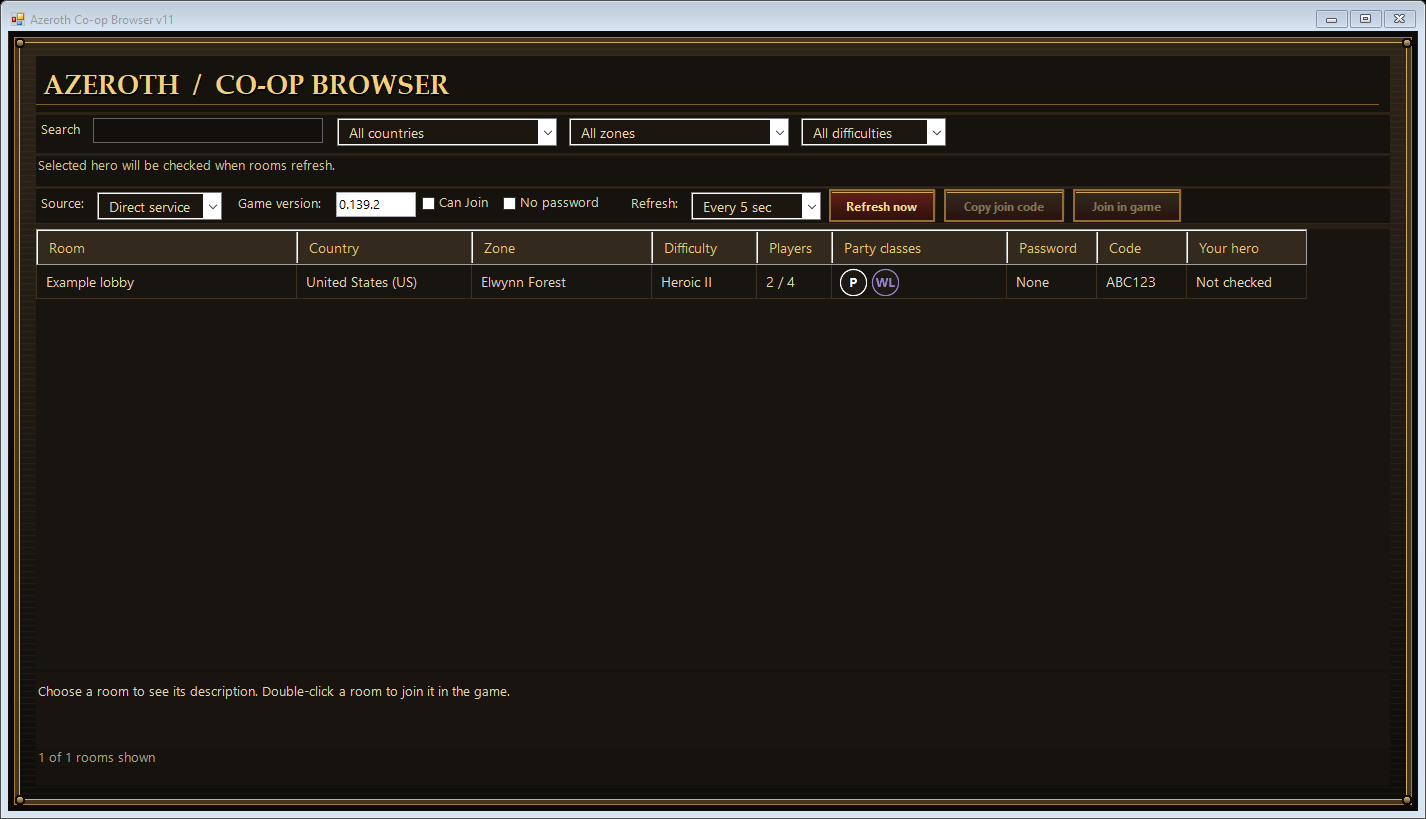
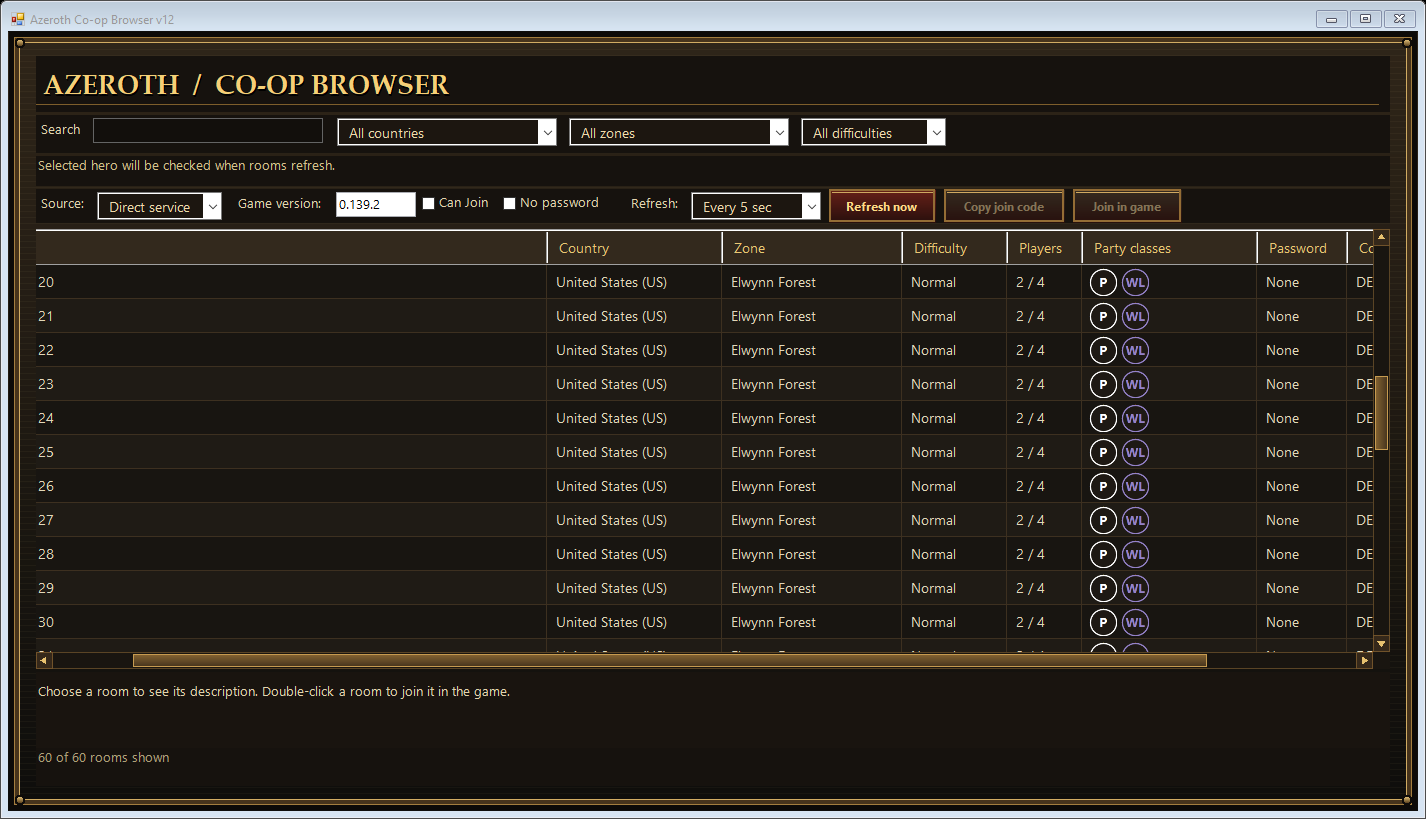
Add optional one-second refresh and dark-gold native scrollbars

diff --git a/src/Browser.cs b/src/Browser.cs
@@ -15,14 +15,14 @@ sealed class Lobby {
     internal string CountryLabel {get{try{return new RegionInfo(Country).EnglishName+" ("+Country+")";}catch{return string.IsNullOrEmpty(Country)?"Unknown":Country;}}}
 }
 sealed class BrowserForm : Form {
-    readonly DataGridView grid=new DataGridView();readonly TextBox search=new TextBox();
-    readonly ComboBox country=new ComboBox(),zone=new ComboBox(),difficulty=new ComboBox(),interval=new ComboBox();
+    readonly DataGridView grid=new WarcraftGrid();readonly TextBox search=new TextBox();
+    readonly ComboBox country=new WarcraftComboBox(),zone=new WarcraftComboBox(),difficulty=new WarcraftComboBox(),interval=new WarcraftComboBox();
     readonly CheckBox canJoin=new CheckBox(),noPassword=new CheckBox();
     readonly Label status=new Label(),details=new Label(),heroLabel=new Label();readonly HeroUnlockReader heroReader=new HeroUnlockReader();HeroUnlockState heroState;readonly Button refresh=new WarcraftButton(),copy=new WarcraftButton(),join=new WarcraftButton();
-    readonly ComboBox source=new ComboBox();readonly TextBox version=new TextBox();DirectLobbyReader directReader;
+    readonly ComboBox source=new WarcraftComboBox();readonly TextBox version=new TextBox();DirectLobbyReader directReader;
     readonly Timer timer=new Timer();List<Lobby> rooms=new List<Lobby>();LobbyReader reader;bool busy,joining,filtering,closeRequested,stale;
     internal BrowserForm(bool connectOnShow=true){
-        Text="Azeroth Co-op Browser v11";ClientSize=new Size(1410,780);MinimumSize=new Size(1020,650);StartPosition=FormStartPosition.CenterScreen;
+        Text="Azeroth Co-op Browser v12";ClientSize=new Size(1410,780);MinimumSize=new Size(1020,650);StartPosition=FormStartPosition.CenterScreen;
         Font=new Font("Segoe UI",10);BackColor=Color.FromArgb(22,18,14);ForeColor=Color.FromArgb(225,211,173);
         var root=new WarcraftPanel{Dock=DockStyle.Fill,Padding=new Padding(25),ColumnCount=1,RowCount=7};
         root.RowStyles.Add(new RowStyle(SizeType.Absolute,56));root.RowStyles.Add(new RowStyle(SizeType.Absolute,44));root.RowStyles.Add(new RowStyle(SizeType.Absolute,30));root.RowStyles.Add(new RowStyle(SizeType.Absolute,40));root.RowStyles.Add(new RowStyle(SizeType.Percent,100));root.RowStyles.Add(new RowStyle(SizeType.Absolute,76));root.RowStyles.Add(new RowStyle(SizeType.Absolute,38));Controls.Add(root);
@@ -36,7 +36,7 @@ sealed class BrowserForm : Form {
         canJoin.Text="Can Join";canJoin.AutoSize=true;
         noPassword.Text="No password";noPassword.AutoSize=true;
         tools.Controls.Add(new Label{Text="Source:",AutoSize=true,Padding=new Padding(0,5,3,0)});WarcraftTheme.Combo(source);source.DropDownStyle=ComboBoxStyle.DropDownList;source.Width=125;source.Items.AddRange(new object[]{"Direct service","Game view"});source.SelectedIndex=0;tools.Controls.Add(source);tools.Controls.Add(new Label{Text="Game version:",AutoSize=true,Padding=new Padding(8,5,3,0)});version.Width=80;version.Text=DirectLobbyReader.DetectVersion();tools.Controls.Add(version);canJoin.Enabled=true;tools.Controls.Add(canJoin);tools.Controls.Add(noPassword);tools.Controls.Add(new Label{Text="Refresh:",AutoSize=true,Padding=new Padding(16,5,3,0)});
-        WarcraftTheme.Combo(interval);interval.DropDownStyle=ComboBoxStyle.DropDownList;interval.Width=130;interval.Items.AddRange(new object[]{"Manual","Every 3 sec","Every 5 sec","Every 10 sec"});interval.SelectedIndex=2;timer.Interval=5000;tools.Controls.Add(interval);
+        WarcraftTheme.Combo(interval);interval.DropDownStyle=ComboBoxStyle.DropDownList;interval.Width=130;interval.Items.AddRange(new object[]{"Manual","Every 1 sec","Every 3 sec","Every 5 sec","Every 10 sec"});interval.SelectedIndex=3;timer.Interval=5000;tools.Controls.Add(interval);
         refresh.Text="Refresh now";refresh.AutoSize=true;tools.Controls.Add(refresh);copy.Text="Copy join code";copy.AutoSize=true;copy.Enabled=false;tools.Controls.Add(copy);join.Text="Join in game";join.AutoSize=true;join.Enabled=false;tools.Controls.Add(join);
         grid.Dock=DockStyle.Fill;grid.ReadOnly=true;grid.AllowUserToAddRows=grid.AllowUserToDeleteRows=grid.AllowUserToResizeRows=false;grid.MultiSelect=false;grid.SelectionMode=DataGridViewSelectionMode.FullRowSelect;
         grid.RowHeadersVisible=false;grid.BackgroundColor=Color.FromArgb(24,21,17);grid.BorderStyle=BorderStyle.None;grid.EnableHeadersVisualStyles=false;grid.GridColor=Color.FromArgb(61,48,32);
@@ -48,7 +48,7 @@ sealed class BrowserForm : Form {
         root.Controls.Add(grid,0,4);details.BackColor=Color.FromArgb(25,20,15);details.Dock=DockStyle.Fill;details.Padding=new Padding(0,10,0,0);root.Controls.Add(details,0,5);
         status.Dock=DockStyle.Fill;status.Text="Direct service reads rooms without the game or its Co-op window open.";status.ForeColor=Color.FromArgb(176,160,121);root.Controls.Add(status,0,6);
         source.SelectedIndexChanged+=delegate{ChangeSource();};version.TextChanged+=delegate{if(directReader!=null){directReader.Dispose();directReader=null;}stale=true;copy.Enabled=join.Enabled=false;};search.TextChanged+=delegate{Render();};canJoin.CheckedChanged+=delegate{Render();};noPassword.CheckedChanged+=delegate{Render();};refresh.Click+=async delegate{await RefreshRooms();};
-        interval.SelectedIndexChanged+=delegate{timer.Stop();if(interval.SelectedIndex>0){timer.Interval=new[]{0,3000,5000,10000}[interval.SelectedIndex];if(connectOnShow&&Visible)timer.Start();}};
+        interval.SelectedIndexChanged+=delegate{timer.Stop();if(interval.SelectedIndex>0){timer.Interval=new[]{0,1000,3000,5000,10000}[interval.SelectedIndex];if(connectOnShow&&Visible)timer.Start();}};
         timer.Tick+=async delegate{await RefreshRooms();};grid.SelectionChanged+=delegate{ShowDetails();};grid.CellDoubleClick+=async delegate(object s,DataGridViewCellEventArgs e){if(e.RowIndex>=0&&e.RowIndex<grid.Rows.Count)await JoinRoom(grid.Rows[e.RowIndex].Tag as Lobby);};copy.Click+=delegate{CopyCode();};join.Click+=async delegate{await JoinRoom(Selected());};
         FormClosing+=delegate(object sender,FormClosingEventArgs e){if(busy||joining){closeRequested=true;timer.Stop();e.Cancel=true;status.Text="Finishing the current capture and disconnecting...";}};
         FormClosed+=delegate{timer.Dispose();heroReader.Dispose();if(directReader!=null)directReader.Dispose();if(reader!=null)try{reader.Dispose();}catch(Exception e){MessageBox.Show("The lobby reader could not detach. Restart the game before reconnecting.\n"+e.Message,"Lobby reader",MessageBoxButtons.OK,MessageBoxIcon.Information);}};Shown+=async delegate{if(connectOnShow){await RefreshRooms();if(!closeRequested&&!IsDisposed&&interval.SelectedIndex>0)timer.Start();}};

diff --git a/src/WarcraftScrollbars.cs b/src/WarcraftScrollbars.cs
@@ -1,0 +1,59 @@
+using System;using System.Collections.Generic;using System.Drawing;using System.Drawing.Drawing2D;using System.Runtime.InteropServices;using System.Windows.Forms;
+
+// Repaint native scrollbar chrome, retaining Windows hit-testing, dragging,
+// wheel, keyboard and accessibility behavior.
+sealed class WarcraftScrollSkin : NativeWindow, IDisposable {
+ [StructLayout(LayoutKind.Sequential)]struct Rect {internal int Left,Top,Right,Bottom;}
+ [StructLayout(LayoutKind.Sequential)]struct BarInfo {internal int Size;internal Rect Bounds;internal int Arrow,ThumbTop,ThumbBottom,Reserved;[MarshalAs(UnmanagedType.ByValArray,SizeConst=6)]internal int[] State;}
+ [DllImport("user32.dll")]static extern bool GetScrollBarInfo(IntPtr window,int id,ref BarInfo info);
+ [DllImport("user32.dll")]static extern bool GetWindowRect(IntPtr window,out Rect bounds);
+ [DllImport("user32.dll")]static extern IntPtr GetWindowDC(IntPtr window);
+ [DllImport("user32.dll")]static extern int ReleaseDC(IntPtr window,IntPtr dc);
+ readonly int objectId;
+ internal WarcraftScrollSkin(int objectId=-4){this.objectId=objectId;}
+ internal void Attach(IntPtr window){if(Handle==window)return;if(Handle!=IntPtr.Zero)ReleaseHandle();if(window!=IntPtr.Zero)AssignHandle(window);}
+ protected override void WndProc(ref Message m){
+  base.WndProc(ref m);
+  if(m.Msg==0x0f||m.Msg==0x85||m.Msg==0x200||m.Msg==0xa0||m.Msg==0x201||m.Msg==0x202||m.Msg==0x317||m.Msg==0x318){
+   try{Paint(m.Msg==0x317||m.Msg==0x318?m.WParam:IntPtr.Zero);}catch{/* Keep native scrolling usable if a transient window is disappearing. */}
+  }
+ }
+ void Paint(IntPtr printDc){
+  if(Handle==IntPtr.Zero)return;var info=new BarInfo{Size=Marshal.SizeOf(typeof(BarInfo)),State=new int[6]};Rect window;
+  if(!GetScrollBarInfo(Handle,objectId,ref info)||!GetWindowRect(Handle,out window)||(info.State[0]&0x18000)!=0)return;
+  var bar=new Rectangle(info.Bounds.Left-window.Left,info.Bounds.Top-window.Top,info.Bounds.Right-info.Bounds.Left,info.Bounds.Bottom-info.Bounds.Top);if(bar.Width<2||bar.Height<2)return;
+  IntPtr dc=printDc!=IntPtr.Zero?printDc:GetWindowDC(Handle);if(dc==IntPtr.Zero)return;
+  try{using(var g=Graphics.FromHdc(dc))Draw(g,bar,info.Arrow,info.ThumbTop,info.ThumbBottom,info.State);}finally{if(printDc==IntPtr.Zero)ReleaseDC(Handle,dc);}
+ }
+ static void Draw(Graphics g,Rectangle bar,int arrow,int top,int bottom,int[] states){
+  bool vertical=bar.Height>bar.Width;int length=vertical?bar.Height:bar.Width,thickness=vertical?bar.Width:bar.Height;arrow=Math.Max(1,Math.Min(arrow,Math.Min(thickness,length/2)));
+  using(var track=new SolidBrush(Color.FromArgb(25,21,16)))g.FillRectangle(track,bar);
+  using(var border=new Pen(Color.FromArgb(90,68,37)))g.DrawRectangle(border,bar.X,bar.Y,bar.Width-1,bar.Height-1);
+  Rectangle first=vertical?new Rectangle(bar.X,bar.Y,bar.Width,arrow):new Rectangle(bar.X,bar.Y,arrow,bar.Height),last=vertical?new Rectangle(bar.X,bar.Bottom-arrow,bar.Width,arrow):new Rectangle(bar.Right-arrow,bar.Y,arrow,bar.Height);
+  Button(g,first,vertical,true,(states[1]&1)!=0);Button(g,last,vertical,false,(states[5]&1)!=0);
+  top=Math.Max(arrow,top);bottom=Math.Min(length-arrow,bottom);
+  if(bottom>top){var thumb=vertical?new Rectangle(bar.X+2,bar.Y+top,bar.Width-4,bottom-top):new Rectangle(bar.X+top,bar.Y+2,bottom-top,bar.Height-4);if(thumb.Width>0&&thumb.Height>0){using(var fill=new LinearGradientBrush(thumb,Color.FromArgb(132,99,49),Color.FromArgb(64,48,28),vertical?0f:90f))g.FillRectangle(fill,thumb);using(var edge=new Pen(Color.FromArgb(198,155,80)))g.DrawRectangle(edge,thumb.X,thumb.Y,thumb.Width-1,thumb.Height-1);}}
+ }
+ static void Button(Graphics g,Rectangle r,bool vertical,bool first,bool disabled){
+  if(r.Width<2||r.Height<2)return;using(var fill=new SolidBrush(Color.FromArgb(53,40,26)))g.FillRectangle(fill,r);using(var edge=new Pen(Color.FromArgb(112,82,42)))g.DrawRectangle(edge,r.X,r.Y,r.Width-1,r.Height-1);
+  int x=r.Left+r.Width/2,y=r.Top+r.Height/2,d=Math.Max(2,Math.Min(r.Width,r.Height)/4);Point[] points=vertical?(first?new[]{new Point(x,y-d),new Point(x-d,y+d/2),new Point(x+d,y+d/2)}:new[]{new Point(x,y+d),new Point(x-d,y-d/2),new Point(x+d,y-d/2)}):(first?new[]{new Point(x-d,y),new Point(x+d/2,y-d),new Point(x+d/2,y+d)}:new[]{new Point(x+d,y),new Point(x-d/2,y-d),new Point(x-d/2,y+d)});
+  using(var ink=new SolidBrush(disabled?Color.FromArgb(107,88,57):Color.FromArgb(231,193,111)))g.FillPolygon(ink,points);
+ }
+ public void Dispose(){if(Handle!=IntPtr.Zero)ReleaseHandle();}
+}
+sealed class WarcraftGrid : DataGridView {
+ readonly Dictionary<ScrollBar,WarcraftScrollSkin> skins=new Dictionary<ScrollBar,WarcraftScrollSkin>();
+ internal WarcraftGrid(){ControlAdded+=delegate(object sender,ControlEventArgs e){Watch(e.Control as ScrollBar);};foreach(Control control in Controls)Watch(control as ScrollBar);}
+ void Watch(ScrollBar bar){if(bar==null||skins.ContainsKey(bar))return;var skin=new WarcraftScrollSkin();skins.Add(bar,skin);bar.HandleCreated+=delegate{skin.Attach(bar.Handle);};bar.HandleDestroyed+=delegate{skin.Dispose();};if(bar.IsHandleCreated)skin.Attach(bar.Handle);}
+ protected override void OnPaint(PaintEventArgs e){base.OnPaint(e);ScrollBar vertical=null,horizontal=null;foreach(var bar in skins.Keys)if(bar.Visible){if(bar is VScrollBar)vertical=bar;else if(bar is HScrollBar)horizontal=bar;}if(vertical!=null&&horizontal!=null){var corner=new Rectangle(vertical.Left,horizontal.Top,vertical.Width,horizontal.Height);using(var fill=new SolidBrush(Color.FromArgb(25,21,16)))e.Graphics.FillRectangle(fill,corner);}}
+ protected override void OnScroll(ScrollEventArgs e){base.OnScroll(e);foreach(var bar in skins.Keys)bar.Invalidate();}
+ protected override void Dispose(bool disposing){if(disposing)foreach(var skin in skins.Values)skin.Dispose();base.Dispose(disposing);}
+}
+sealed class WarcraftComboBox : ComboBox {
+ [StructLayout(LayoutKind.Sequential)]struct Rect {internal int Left,Top,Right,Bottom;}
+ [StructLayout(LayoutKind.Sequential)]struct ComboInfo {internal int Size;internal Rect Item,Button;internal int State;internal IntPtr Combo,Edit,List;}
+ [DllImport("user32.dll")]static extern bool GetComboBoxInfo(IntPtr combo,ref ComboInfo info);
+ readonly WarcraftScrollSkin listSkin=new WarcraftScrollSkin(-5);
+ protected override void OnDropDown(EventArgs e){base.OnDropDown(e);var info=new ComboInfo{Size=Marshal.SizeOf(typeof(ComboInfo))};if(GetComboBoxInfo(Handle,ref info))listSkin.Attach(info.List);}
+ protected override void Dispose(bool disposing){if(disposing)listSkin.Dispose();base.Dispose(disposing);}
+}

diff --git a/tests/SmokeTests.cs b/tests/SmokeTests.cs
@@ -14,7 +14,7 @@ class SmokeTests {
   Application.EnableVisualStyles();using(var form=new BrowserForm(false)){
    // connectOnShow=false and manual refresh: display only, no game or network access.
    var interval=(ComboBox)typeof(BrowserForm).GetField("interval",BindingFlags.Instance|BindingFlags.NonPublic).GetValue(form);var timer=(System.Windows.Forms.Timer)typeof(BrowserForm).GetField("timer",BindingFlags.Instance|BindingFlags.NonPublic).GetValue(form);
-   Check(interval.SelectedItem.ToString()=="Every 5 sec"&&timer.Interval==5000,"Default refresh is not 5 seconds");Check(interval.Items.Cast<string>().SequenceEqual(new[]{"Manual","Every 3 sec","Every 5 sec","Every 10 sec"}),"Refresh choices differ");interval.SelectedIndex=1;Check(timer.Interval==3000,"3-second refresh mismatch");interval.SelectedIndex=0;Check(!timer.Enabled,"Manual refresh did not stop timer");interval.SelectedIndex=2;
+   Check(interval.SelectedItem.ToString()=="Every 5 sec"&&timer.Interval==5000,"Default refresh is not 5 seconds");Check(interval.Items.Cast<string>().SequenceEqual(new[]{"Manual","Every 1 sec","Every 3 sec","Every 5 sec","Every 10 sec"}),"Refresh choices differ");interval.SelectedIndex=1;Check(timer.Interval==1000,"1-second refresh mismatch");interval.SelectedIndex=2;Check(timer.Interval==3000,"3-second refresh mismatch");interval.SelectedIndex=0;Check(!timer.Enabled,"Manual refresh did not stop timer");interval.SelectedIndex=3;
    var f=typeof(BrowserForm).GetField("rooms",BindingFlags.Instance|BindingFlags.NonPublic);f.SetValue(form,DirectLobbyReader.Decode(data));typeof(BrowserForm).GetMethod("Render",BindingFlags.Instance|BindingFlags.NonPublic).Invoke(form,null);
    form.Opacity=0;form.Show();Application.DoEvents();using(var bitmap=new Bitmap(form.Width,form.Height)){form.DrawToBitmap(bitmap,new Rectangle(0,0,bitmap.Width,bitmap.Height));string outdir=Path.Combine(AppDomain.CurrentDomain.BaseDirectory,"..","artifacts");Directory.CreateDirectory(outdir);bitmap.Save(Path.Combine(outdir,"offline-preview.png"));}
   }

diff --git a/PROTOCOL.md b/PROTOCOL.md
@@ -9,6 +9,6 @@ Initialize with byte 1, u32 protocol version 3, a u32-length-prefixed UTF-8 game
 
 Each row: four length-prefixed strings (code, name, description, host), u8 host class, zone-key string, u8 players, u8 password flag, u8 open flag, country string, u32 roster count, that many u8 class IDs, host-title string. After the rows come one u8 capacity per row, then one u8 Heroic tier per row.
 
-The decoder checks lengths, strict UTF-8, flags, classes, codes, capacity, truncation and trailing bytes. The client caps a received message at 2 MiB and times requests out after 10 seconds. Refresh defaults to five seconds; manual, three-second and ten-second intervals are also offered. A busy request prevents overlapping refreshes.
+The decoder checks lengths, strict UTF-8, flags, classes, codes, capacity, truncation and trailing bytes. The client caps a received message at 2 MiB and times requests out after 10 seconds. Refresh defaults to five seconds; manual, one-second, three-second and ten-second intervals are also offered. A busy request prevents overlapping refreshes.
 
 Class IDs: 1 Warrior, 2 Paladin, 3 Hunter, 4 Rogue, 5 Priest, 7 Shaman, 8 Mage, 9 Warlock, 11 Druid. Unknown data should fail visibly rather than be guessed. This direct-service client requests lists only; no direct-service join/host/chat protocol is implemented. Browser v8 joins by submitting the normal UI command inside the running game, rather than implementing a second multiplayer client.

diff --git a/AI_DEVELOPMENT.md b/AI_DEVELOPMENT.md
@@ -14,6 +14,7 @@ The repository is intended to be understandable to both human contributors and A
 - `src/LobbyCapture.cs`: reversible Game view capture installation/restoration.
 - `src/LobbyCaptureBytes.cs`: capture stub bytes, separate from the game's code.
 - `src/WarcraftTheme.cs`, `src/ClassIcons.cs`: procedural UI and generated badges.
+- `src/WarcraftScrollbars.cs`: native scrollbar repainting for the grid and dropdown lists; native input and accessibility behavior is retained.
 - `src/JoinGame.cs`: exact-build, full live-function verification for native joining.
 - `src/NativeJoinBridge.cs`, `src/JoinBridgeBytes.cs`: one-shot game-thread command submission and reversible detour.
 - `src/JoinPasswordForm.cs`: explicit password prompt and game foreground handoff.
